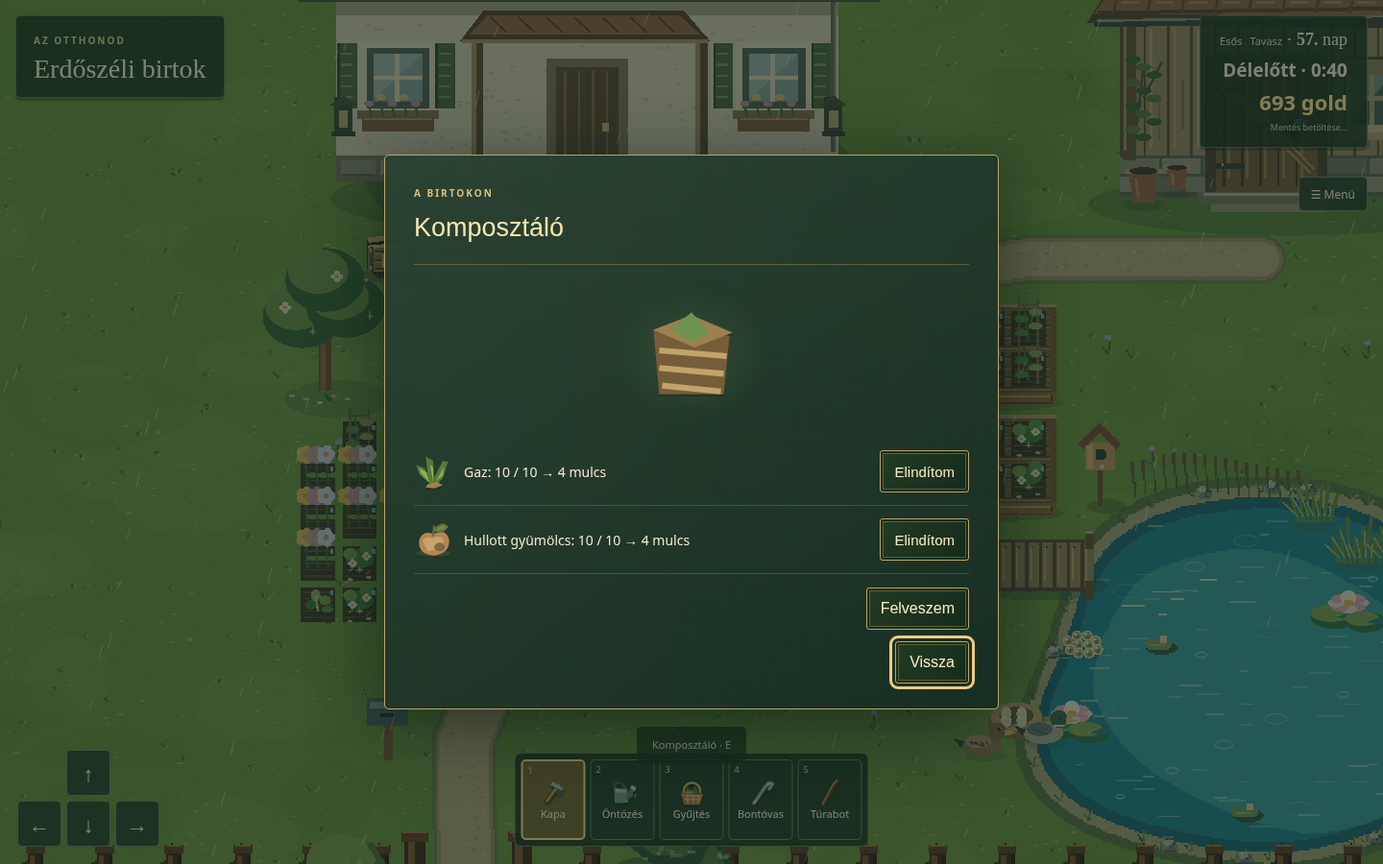
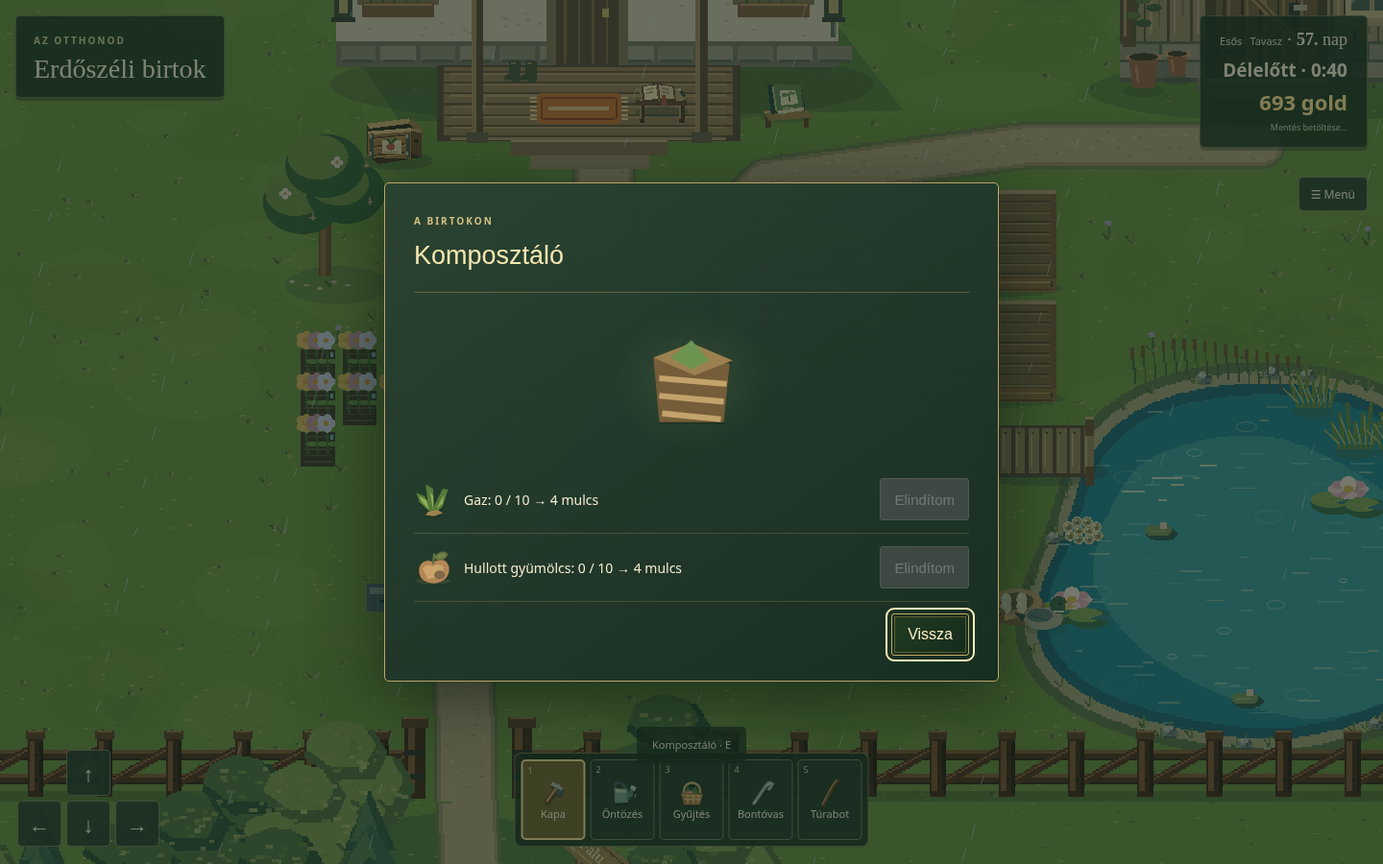
Unify all dialog controls and move placed objects exclusively with the crowbar

diff --git a/src/main.ts b/src/main.ts
@@ -1,5 +1,5 @@
+import {placedItemAt,pickPlacedItem} from './placed-items';
 import {MenuPresentation} from './menu-presentation';
-import './menu.css';
 import {forestWarningPaper} from './forest-warning';
 import {drawVillageNotice,villageNotice,pollinatorNoticeTitle,pollinatorNoticeText} from './village-notice';
 import {collectFruitFalls,pickFallenFruit} from './fallen-fruit';
@@ -8,9 +8,8 @@ import {nearEmptyBlossoms,POLLINATION_OBSERVATION_TITLE,POLLINATION_OBSERVATION_
 import {ForestAtmosphere} from './forest-atmosphere';
 import {isMicroscopeTestFarm,prepareMicroscopeTest} from './microscope-test-setup';
 import {playMicroscopeDelivery} from './microscope-delivery';
-import {packEmptyChest} from './chests';
 import {simonPortrait} from './simon-art';
-import {blueprintIds,blueprintNames,recipes,materialKeys,materialNames,heldMaterial,canCraft,craftMachine,buyBlueprint,craftNames,createCrafting,advanceCrafting,compostAction,packMachine,cutCarriedReed,mulchPlot,irrigate,irrigatedPlots,type Blueprint,type CraftItem,type Machine} from './crafting';
+import {blueprintIds,blueprintNames,recipes,materialKeys,materialNames,heldMaterial,canCraft,craftMachine,buyBlueprint,craftNames,createCrafting,advanceCrafting,compostAction,cutCarriedReed,mulchPlot,irrigate,irrigatedPlots,type Blueprint,type CraftItem,type Machine} from './crafting';
 import {drawCrafting,drawIrrigationArcs,drawMachineActivity,machineActivityPanel} from './crafting-art';
 import {junkSites,junkPoint,junkProgress,junkWorkPoint,junkTool,junkAt,junkBlocks,strikeJunk,prepareJunkSites,type JunkId} from './junk-sites';
 import {drawJunkSites,updateJunkIndicators} from './junk-art';
@@ -49,6 +48,8 @@ import {drawVillage,drawForage} from './village-art';
 import {createTravel,forageReady} from './travel';
 import Phaser from 'phaser';
 import './style.css';
+import './menu.css';
+import './dialogue-theme.css';
 import { move, START,blocked } from './movement';
 import { farmLayout,farmBounds,porchInteraction } from './layout';
 import {findSeeds,unlockedSeeds} from './seed-find';
@@ -96,7 +97,7 @@ document.querySelector('#help')!.addEventListener('click',()=>{
  showDialogue('Irányítás','WASD / nyilak · mozgás\nShift · futás\nSpace · ugrás / kitérés','');dialogue.dataset.presentation='controls';
  const panel=document.querySelector<HTMLElement>('#research-panel')!;panel.replaceChildren();panel.hidden=false;panel.classList.add('controls-guide');
  for(const [title,lines]of [
-  ['Eszközök',['1 · Kapa','2 · Öntözés','3 · Gyűjtés','4 · Bontóvas','5 · Túrabot (ha már nálad van)']],
+  ['Eszközök',['1 · Kapa','2 · Öntözés','3 · Gyűjtés','4 · Bontóvas — bontás és tárgyak áthelyezése','5 · Túrabot (ha már nálad van)']],
   ['Használat',['Kattintás · művelet a kijelölt helyen','F · művelet a karakter előtt','E · közeli tárgy vagy szereplő','Ültetőanyagot és lehelyezhető tárgyat a Készletben választhatsz.']],
   ['Ablakok',['Tab · Készlet megnyitása / bezárása','Esc · ablak bezárása','Esc a kertben · Főmenü megnyitása']]
  ]as const){const section=document.createElement('section'),heading=document.createElement('h3'),list=document.createElement('ul');heading.textContent=title;for(const line of lines){const item=document.createElement('li');item.textContent=line;list.append(item);}section.append(heading,list);panel.append(section);}
@@ -597,14 +598,14 @@ class Farm extends Phaser.Scene {
  private appendCraftRecipes(panel:HTMLElement){
   for(const id of this.travel.crafting?.blueprints??[]){const card=document.createElement('article');card.className='inventory-card craft-recipe';const title=document.createElement('strong');title.textContent=blueprintNames[id];card.append(itemIcon(id),title);const costs=document.createElement('div');costs.className='recipe-costs';for(const key of materialKeys){const required=recipes[id][key];if(!required)continue;const row=document.createElement('p'),held=heldMaterial(this.currentSnapshot(),key);row.className=`recipe-cost ${held<required?'missing':'ready'}`;row.append(itemIcon(key==='copper'?'copperPipe':key),document.createTextNode(`${materialNames[key]}: ${held} / ${required}`));costs.append(row);}card.append(costs);const craft=document.createElement('button');craft.type='button';craft.dataset.craftMachine=id;craft.textContent='Elkészítem';craft.disabled=!canCraft(this.currentSnapshot(),id)||this.transitioning;craft.onclick=()=>{const n=craftMachine(this.currentSnapshot(),id);if(n)void this.commitChest(n,()=>this.openInventory('blueprints'));};card.append(craft);panel.append(card);}
  }
- private redrawCrafting(){this.craftArt?.destroy();this.craftArt=drawCrafting(this,this.travel.crafting,(index,pointer)=>{const p=this.cameras.main.getWorldPoint(pointer.x,pointer.y);if(this.canInteract()&&this.gatherTargetWeed(p))return;if(this.canInteract()&&this.nearMachine()===index){if(this.tool==='crowbar')void this.retrieveMachine(index);else this.openMachine(index);}});}
+ private redrawCrafting(){this.craftArt?.destroy();this.craftArt=drawCrafting(this,this.travel.crafting,(index,pointer)=>{const p=this.cameras.main.getWorldPoint(pointer.x,pointer.y);if(this.canInteract()&&this.gatherTargetWeed(p))return;if(this.canInteract()&&this.nearMachine()===index){if(this.tool==='crowbar'){const m=this.travel.crafting!.machines[index];this.tryPickupPlaced(m);}else this.openMachine(index);}});}
  private nearMachine(){if(!this.actor||this.actor.y>=600)return -1;let index=-1,d=49;this.travel.crafting?.machines.forEach((m,i)=>{const distance=Math.hypot(m.x-this.actor.x,m.y-this.actor.y);if(distance<d){d=distance;index=i;}});return index;}
  private openMachine(index:number){
   const machine=this.travel.crafting?.machines[index];if(!machine)return;
 
   if(machine.kind==='irrigation')this.sprayPending=true;
   showDialogue(machine.kind==='basket'?'Nádkosár':blueprintNames[machine.kind],'','A BIRTOKON');const panel=document.querySelector<HTMLElement>('#research-panel')!;panel.replaceChildren();panel.hidden=false;panel.append(machineActivityPanel(machine));
-  if(machine.kind==='irrigation'||machine.kind==='beeHabitat'||machine.kind==='basket'){const pickup=document.createElement('button');pickup.type='button';pickup.textContent='Felveszem';pickup.dataset.packMachine=String(index);pickup.onclick=()=>void this.retrieveMachine(index,true);panel.append(pickup);return;}
+  if(machine.kind==='irrigation'||machine.kind==='beeHabitat'||machine.kind==='basket')return;
   const ready=machine.ready>0,compost=machine.kind==='composter';
   if(!ready&&machine.started===null){
    const inputs=compost?(['weed','fallenFruit'] as const):(['reed'] as const);
@@ -620,10 +621,15 @@ class Farm extends Phaser.Scene {
    const status=document.createElement('p');status.className='machine-output';if(ready)status.append(itemIcon(compost?'mulch':'basket'));status.append(document.createTextNode(ready?`${compost?'Mulcs':'Nádkosár'}: ${machine.ready}`:'Készül…'));panel.append(status);
    const take=document.createElement('button');take.type='button';take.dataset.machineAction=String(index);take.textContent=ready?'Átveszem':'Elindítom';take.disabled=this.transitioning||!ready;take.onclick=()=>{if(this.transitioning)return;const next=compostAction(this.currentSnapshot(),index);if(next)void this.commitChest(next,()=>this.openMachine(index));};panel.append(take);
   }
-  const pack=document.createElement('button');pack.type='button';pack.dataset.packMachine=String(index);pack.textContent='Felveszem';pack.disabled=machine.started!==null||machine.ready>0||this.transitioning;pack.onclick=()=>void this.retrieveMachine(index,true);panel.append(pack);
+
  }
 
- private async retrieveMachine(index:number,close=false){if(this.transitioning)return;const next=packMachine(this.currentSnapshot(),index);if(next)await this.commitChest(next,()=>{if(close)dialogue.close();});}
+ private tryPickupPlaced(point:{x:number;y:number}){
+  if(this.tool!=='crowbar'||!this.canInteract()||this.placing)return false;
+  const item=placedItemAt(this.currentSnapshot(),point);if(!item)return false;const result=pickPlacedItem(this.currentSnapshot(),item);
+  if('error'in result){this.notice(result.error);return true;}
+  void this.commitChest(result.state,()=>{this.redrawScenery();this.animateWork(item.x,item.y,'crowbar','wood',()=>this.notice(`${item.name} a Készletbe került.`));});return true;
+ }
  private craftPlacement(){
   if(!this.target)return null;let p={x:this.target.x+TILE/2,y:this.target.y+TILE/2};if(this.placingCraft==='irrigation'&&this.garden.plots.size){const closest=[...this.garden.plots.keys()].map(k=>{const[x,y]=k.split(',').map(Number);return{x:x+TILE/2,y:y+TILE/2};}).filter(q=>Math.abs(q.y-p.y)<=TILE/2).sort((a,b)=>Math.abs(a.y-p.y)-Math.abs(b.y-p.y)||Math.abs(a.x-p.x)-Math.abs(b.x-p.x))[0];if(closest)p={x:closest.x+Math.round((p.x-closest.x)/TILE)*TILE,y:closest.y};}return p;
  }
@@ -689,7 +695,7 @@ class Farm extends Phaser.Scene {
   showDialogue('Tárolóláda',`${occupiedSlots(chest.items)} / 24 rekesz · Kattintás: teljes halom · Shift+kattintás: 1 db`,'');
   const panel=document.querySelector<HTMLElement>('#research-panel')!;panel.replaceChildren();panel.hidden=false;
   for(const [title,items,deposit]of [['A ládában',chest.items,false],['Nálad',inventoryCounts(this.currentSnapshot()),true]] as const){const heading=document.createElement('h3');heading.textContent=title;panel.append(heading);const grid=document.createElement('div');grid.className='chest-grid';for(const [key,n]of Object.entries(items)){if(!n)continue;const button=document.createElement('button');button.type='button';button.className='chest-slot';button.dataset.chestItem=key;const label=document.createElement('span');label.className='chest-item-name';label.textContent=this.chestItemName(key);const count=document.createElement('strong');count.className='chest-item-count';count.textContent=String(n);button.append(this.chestItemIcon(key),label,count);button.onclick=e=>{const next=transferChest(this.currentSnapshot(),index,key,deposit,e.shiftKey);if(next)void this.commitChest(next,()=>this.openChest(index));else this.notice('Nincs több hely a tárolóban.');};grid.append(button);}panel.append(grid);}
-  const pack=document.createElement('button');pack.type='button';pack.id='pack-chest';pack.textContent='Üres láda felvétele';pack.disabled=occupiedSlots(chest.items)>0;pack.onclick=()=>{const next=packEmptyChest(this.currentSnapshot(),index);if(next)void this.commitChest(next,()=>dialogue.close());};panel.append(pack);
+
  }
  private drawSkills(){
   const page=document.querySelector<HTMLElement>('#skills-page')!;page.replaceChildren();
@@ -1226,13 +1232,14 @@ class Farm extends Phaser.Scene {
  private async doWork(){
   if(!this.ready||performance.now()<this.eatingUntil||dialogue.open||this.transitioning||this.fishThrowPlaying||this.collapseRemaining>0||this.jumpRemaining>0||this.avatar.isWorking()||!this.target)return;
   if(this.tool==='chest'){void this.placeChest();return;}
+  if(this.tryPickupPlaced({x:this.target.x+TILE/2,y:this.target.y+TILE/2}))return;
   if(inForest(this.actor.x,this.actor.y)){if(!this.forestInteraction())this.attackForest();return;}
   if(inHome(this.actor.y)){this.interactHome();return;}
   if(inWorkshop(this.actor.y)){this.researchInteraction();return;}
   if(this.gatherTargetWeed())return;
   if(this.skill.chests?.placed.some(c=>this.target&&Math.hypot(c.x-this.target.x-TILE/2,c.y-this.target.y-TILE/2)<27)){this.notice('Itt a tárolóláda áll. E betűvel kinyithatod.');return;}
   if(this.tool==='harvest'){const reed=this.travel.estate.pond.findIndex(p=>p.kind==='reed'&&Math.hypot(p.x-this.target!.x-TILE/2,p.y-this.target!.y-TILE/2)<24);if(reed>=0){void this.harvestReed(reed);return;}}
-  const machineIndex=this.travel.crafting?.machines.findIndex(m=>Math.hypot(m.x-this.target!.x-TILE/2,m.y-this.target!.y-TILE/2)<20)??-1;if(machineIndex>=0&&this.tool!=='machine'){if(Math.hypot(this.actor.x-this.travel.crafting!.machines[machineIndex].x,this.actor.y-this.travel.crafting!.machines[machineIndex].y)<49){if(this.tool==='crowbar')void this.retrieveMachine(machineIndex);else this.openMachine(machineIndex);}return;}
+  const machineIndex=this.travel.crafting?.machines.findIndex(m=>Math.hypot(m.x-this.target!.x-TILE/2,m.y-this.target!.y-TILE/2)<20)??-1;if(machineIndex>=0&&this.tool!=='machine'){if(Math.hypot(this.actor.x-this.travel.crafting!.machines[machineIndex].x,this.actor.y-this.travel.crafting!.machines[machineIndex].y)<49){this.openMachine(machineIndex);}return;}
   if(this.tool==='machine'){void this.placeCraftMachine();return;}
   if(this.tool==='mulch'){if(Math.hypot(this.target.x+TILE/2-this.actor.x,this.target.y+TILE/2-this.actor.y)>44){this.notice('Sétálj közelebb.');return;}const n=mulchPlot(this.currentSnapshot(),this.target);if(n)void this.commitChest(n,()=>this.animateWork(this.target!.x+TILE/2,this.target!.y+TILE/2,'hand','soil',()=>this.drawGarden()));return;}
   const junk=junkAt(this.clearing,this.target.x+TILE/2,this.target.y+TILE/2);if(junk){void this.workJunk(junk.id);return;}
@@ -1243,12 +1250,7 @@ class Farm extends Phaser.Scene {
   if((this.tool==='hand'||this.tool==='harvest')&&collectEstate(this.travel.estate,this.actor.x,this.actor.y,this.clock.day)){void this.gatherEstate();return;}
   if(this.travel.estate.trees.some(t=>Math.hypot(this.target!.x+TILE/2-t.x,this.target!.y+TILE/2-t.y)<24)||this.travel.estate.pond.some(p=>p.kind==='duckNest'&&Math.hypot(this.target!.x+TILE/2-p.x,this.target!.y+TILE/2-p.y)<24)){this.notice('Itt már egy fa vagy fészek áll.');return;}
   if(this.tool==='birdhouse'){void this.placeBirdhouse();return;}
-  if(this.story.birdhouse&&Math.hypot(this.target.x+TILE/2-this.story.birdhouse.x,this.target.y+TILE/2-this.story.birdhouse.y)<25){
-   if(this.tool!=='crowbar'){this.notice('A madárodút bontóvassal veheted vissza (4).');return;}
-   if(Math.hypot(this.actor.x-this.story.birdhouse.x,this.actor.y-this.story.birdhouse.y)>44){this.notice('Sétálj közelebb a madárodúhoz.');return;}
-   const point=this.story.birdhouse;
-   void this.saveStory({...this.story,birdhouse:null},()=>{this.avatar.use(point.x-this.actor.x,point.y-this.actor.y);this.redrawScenery();this.notice('A madárodú visszakerült a készletbe. Máshová is kiteheted.');});return;
-  }
+  if(this.story.birdhouse&&Math.hypot(this.target.x+TILE/2-this.story.birdhouse.x,this.target.y+TILE/2-this.story.birdhouse.y)<25){this.notice('A madárodút Bontóvassal helyezheted át.');return;}
   const item=debrisAt(this.clearing,this.garden,this.target.x+TILE/2,this.target.y+TILE/2);
   if(item){void this.clean(item);return;}
   if(this.tool==='stick'){this.avatar.use(this.direction.x*60,this.direction.y*60,'stick');return;}
@@ -1306,7 +1308,7 @@ class Farm extends Phaser.Scene {
     if(!this.ready||dialogue.open||this.transitioning||this.collapseRemaining>0)return;
     if(event.code==='Space'&&!event.repeat&&!(event.target as HTMLElement)?.closest('button')){event.preventDefault();this.startJump();}
     if(event.key>='1'&&event.key<='9')this.selectTool(tools[Number(event.key)-1]);
-    if(event.code==='KeyF'&&!event.repeat){event.preventDefault();if(this.forestInteraction())return;
+    if(event.code==='KeyF'&&!event.repeat){event.preventDefault();if(this.tool==='crowbar'){this.aimAhead();void this.doWork();return;}if(this.forestInteraction())return;
     if(this.interactHome())return;
     if(this.researchInteraction())return;
     if(this.nearby==='village-notice'){this.openVillageNotice();return;}

diff --git a/cypress/e2e/crafting.cy.ts b/cypress/e2e/crafting.cy.ts
@@ -12,10 +12,10 @@ describe('Workshop shop and automatic gardening',()=>{
  it('introduces Simon with the approved line and keeps his portrait in contacts',()=>{const s=fresh(320,4635);start(s);press('e','KeyE',69);cy.get('#dialogue').should('have.attr','data-speaker','simon');cy.get('#dialogue-text').should('have.text','Szia! Simon vagyok. Ha valami lötyög a birtokon, előbb nézd meg, javítható-e. Újat venni még mindig ráérsz.');cy.get('#speaker-portrait img').should('have.attr','alt','Simon arcképe');cy.get('#dialogue-close').click();press('Tab','Tab',9);cy.get('#people-tab').click();cy.get('[data-person=simon]').should('contain','Simon');cy.reload();cy.get('#continue-farm').should('not.be.disabled').click();press('Tab','Tab',9);cy.get('#people-tab').click();cy.get('[data-person=simon]').should('exist');});
 });
 
-it('opening an idle composter with E while holding the crowbar never picks it up',()=>{const s=fresh(300,386);s.travel.crafting!.machines=[{kind:'composter',x:324,y:420,started:null,ready:0}];start(s);press('8','Digit8',56);press('e','KeyE',69);cy.get('#dialogue-title').should('have.text','Komposztáló');cy.get('#game').should('have.attr','data-craft-machines','1');cy.get('[data-pack-machine]').should('be.enabled');cy.get('#dialogue-close').click();cy.reload();cy.get('#continue-farm').should('not.be.disabled').click();cy.get('#game').should('have.attr','data-craft-machines','1');});
+it('opening an idle composter with E while holding the crowbar never picks it up',()=>{const s=fresh(300,386);s.travel.crafting!.machines=[{kind:'composter',x:324,y:420,started:null,ready:0}];start(s);press('8','Digit8',56);press('e','KeyE',69);cy.get('#dialogue-title').should('have.text','Komposztáló');cy.get('#game').should('have.attr','data-craft-machines','1');cy.get('[data-pack-machine]').should('not.exist');cy.get('#dialogue-close').click();cy.reload();cy.get('#continue-farm').should('not.be.disabled').click();cy.get('#game').should('have.attr','data-craft-machines','1');});
 
 it('keeps only the five tools on the toolbar while seeds stay usable from inventory',()=>{const s=fresh(370,345);s.travel.forest={revision:2,enemyIntroSeen:true,stick:true,defeated:[],picked:{},sample:false,examined:false,sent:false,focus:0};s.plots=[['365,296',{crop:null,growth:0,watered:false,regrowing:false}]];start(s);cy.get('#toolbar [data-tool]').should('have.length',5);cy.get('#toolbar [data-tool=radish],#toolbar [data-tool=wildflower]').should('not.exist');press('Tab','Tab',9);cy.get('[data-inventory-seed=radish]').click();cy.get('#game').then(el=>{const z=Number(el.attr('data-zoom'));cy.get('canvas').click((377-Number(el.attr('data-camera-x')))*z,(308-Number(el.attr('data-camera-y')))*z);});cy.get('#game').should('have.attr','data-planted','1');});
-it('retrieves a placed decorative basket with its explicit pickup button',()=>{const s=fresh(410,466);s.travel.crafting!.machines=[{kind:'basket',x:420,y:468,started:null,ready:0}];start(s);press('e','KeyE',69);cy.get('[data-pack-machine]').should('have.text','Felveszem').click();cy.get('#game').should('have.attr','data-craft-machines','0');press('Tab','Tab',9);cy.get('[data-extra=basket] .stack-count').should('have.text','1');});
+it('retrieves a placed decorative basket with the crowbar',()=>{const s=fresh(410,466);s.travel.crafting!.machines=[{kind:'basket',x:420,y:468,started:null,ready:0}];start(s);press('e','KeyE',69);cy.get('[data-pack-machine]').should('not.exist');cy.get('#dialogue-close').click();press('4','Digit4',52);cy.get('#game').then(el=>{const z=Number(el.attr('data-zoom'));cy.get('canvas').click((420-Number(el.attr('data-camera-x')))*z,(468-Number(el.attr('data-camera-y')))*z);});cy.get('#game').should('have.attr','data-craft-machines','0');press('Tab','Tab',9);cy.get('[data-extra=basket] .stack-count').should('have.text','1');});
 it('offers planting or cutting purchased reed, while the machine accepts cut reed only',()=>{const s=fresh(410,466);s.travel.estate.goods.reed=4;s.travel.crafting!.machines=[{kind:'basketMaker',x:372,y:444,started:null,ready:0}];start(s);press('e','KeyE',69);cy.get('[data-machine-action]').should('be.disabled');cy.get('#research-panel').should('contain','Vágott nád: 0 / 4');cy.get('#dialogue-close').click();press('Tab','Tab',9);cy.get('[data-good=reed]').should('contain','Nád');cy.contains('[data-good=reed] button','Elhelyezem').should('exist');for(let i=1;i<=4;i++){cy.contains('[data-good=reed] button','Levágom').click();cy.get('[data-stack-key="craft:reed"] .stack-count').should('have.text',String(i));}cy.get('[data-good=reed]').should('not.exist');cy.get('#dialogue-close').click();press('e','KeyE',69);cy.get('[data-machine-action]').should('not.be.disabled').click();cy.get('#research-panel').should('contain','Készül');});
 
 it('updates partial mailbox contents in the live game and never lets received seeds reappear',()=>{const s=fresh(112,510);s.story.birdhouse={x:280,y:296};s.clearing.wood=1188;s.orders.mailbox.radish=200;s.orders.mailbox.carrot=3;s.orders.pending.potato=2;s.skill.chests={packed:0,placed:[{x:150,y:510,items:{}}]};start(s);const mailbox=()=>cy.get('#game').then(el=>{const z=Number(el.attr('data-zoom'));cy.get('canvas').click((124-Number(el.attr('data-camera-x')))*z,(482-Number(el.attr('data-camera-y')))*z);});mailbox();cy.get('#collect-package').click();cy.get('[data-mail-crop=radish]').should('contain','6 db');cy.get('[data-mail-crop=carrot]').should('contain','3 db');cy.get('#collect-package').should('be.disabled');cy.get('#dialogue-close').click();press('e','KeyE',69);cy.get('[data-chest-item="material:wood"]').click();cy.get('.chest-grid').eq(1).find('[data-chest-item="material:wood"]').should('not.exist');cy.get('#dialogue-close').click();mailbox();cy.get('[data-mail-crop=radish]').should('contain','6 db');cy.get('#collect-package').should('not.be.disabled').click();cy.get('[data-mail-crop]').should('not.exist');cy.get('#collect-package').should('not.be.visible');cy.get('#dialogue-close').click();mailbox();cy.get('[data-mail-crop]').should('not.exist');cy.reload();cy.get('#continue-farm').should('not.be.disabled').click();press('Tab','Tab',9);cy.get('[data-inventory-seed=radish] .stack-count').then(counts=>expect(Array.from(counts).reduce((n,e)=>n+Number(e.textContent),0)).to.eq(204));});
@@ -23,7 +23,7 @@ it('updates partial mailbox contents in the live game and never lets received se
 it('allows hoeing beside the starter-bed sprinkler and moving it through inventory',()=>{
  const s=fresh(555,280);s.plots=['435,248','459,248','483,248'].map(key=>[key,{crop:'pea',growth:1,watered:false,regrowing:false}]);s.travel.crafting!.machines=[{kind:'irrigation',x:519,y:260,started:null,ready:0}];start(s);
  const point=(x:number,y:number)=>cy.get('#game').then(el=>{const z=Number(el.attr('data-zoom'));cy.get('canvas').click((x-Number(el.attr('data-camera-x')))*z,(y-Number(el.attr('data-camera-y')))*z);});
- point(543,260);cy.get('#game').should('have.attr','data-plots','4').and('have.attr','data-working','false');press('e','KeyE',69);cy.get('#dialogue-title').should('have.text','Öntözőrendszer');cy.get('[data-pack-machine]').click();cy.get('#game').should('have.attr','data-craft-machines','0');press('Tab','Tab',9);cy.get('[data-stack-key="craft:irrigation"] button').click();point(543,284);cy.get('#game').should('have.attr','data-craft-machines','1');cy.reload();cy.get('#continue-farm').should('not.be.disabled').click();cy.get('#game').should('have.attr','data-craft-machines','1').and('have.attr','data-plots','4');
+ point(543,260);cy.get('#game').should('have.attr','data-plots','4').and('have.attr','data-working','false');press('e','KeyE',69);cy.get('#dialogue-title').should('have.text','Öntözőrendszer');cy.get('[data-pack-machine]').should('not.exist');cy.get('#dialogue-close').click();press('4','Digit4',52);point(519,260);cy.get('#game').should('have.attr','data-craft-machines','0').and('have.attr','data-working','false');press('Tab','Tab',9);cy.get('[data-stack-key="craft:irrigation"] button').click();point(543,284);cy.get('#game').should('have.attr','data-craft-machines','1');cy.reload();cy.get('#continue-farm').should('not.be.disabled').click();cy.get('#game').should('have.attr','data-craft-machines','1').and('have.attr','data-plots','4');
 });
 
 it('collects weeds behind a composter and beside a wreck without interacting with either',()=>{

diff --git a/src/placed-items.test.ts b/src/placed-items.test.ts
@@ -1,0 +1,21 @@
+import {it,expect} from 'vitest';
+import {snapshot,decodeSnapshot} from './storage';
+import {createGarden} from './gardening';
+import {createClock} from './clock';
+import {createCrafting} from './crafting';
+import {placedItemAt,pickPlacedItem} from './placed-items';
+const fresh=()=>{const s=snapshot({x:300,y:386},createClock(5),createGarden());s.farmName='Áthelyezés';s.travel.crafting=createCrafting();return s;};
+for(const kind of ['composter','basketMaker','irrigation','beeHabitat','basket'] as const)it(`packs ${kind} once into the correct inventory and survives save/reload`,()=>{
+ const s=fresh();s.travel.crafting!.machines=[{kind,x:324,y:420,started:null,ready:0}];const original=structuredClone(s),target=placedItemAt(s,{x:324,y:420})!;const result=pickPlacedItem(s,target);expect('state'in result).toBe(true);if(!('state'in result))return;const next=result.state;expect(next.travel.crafting!.machines).toEqual([]);expect(kind==='basket'?next.travel.estate.produce.basket:next.travel.crafting!.items[kind]).toBe(1);expect(decodeSnapshot(next)).toEqual(next);expect('error'in pickPlacedItem(next,target)).toBe(true);expect(s).toEqual(original);
+});
+it('packs the birdhouse and an empty chest without changing their ownership',()=>{
+ const s=fresh();s.story.giftReceived=true;s.story.birdhouse={x:324,y:420};const bird=pickPlacedItem(s,placedItemAt(s,s.story.birdhouse)!);expect('state'in bird).toBe(true);if(!('state'in bird))return;expect(bird.state.story.birdhouse).toBeNull();expect(bird.state.story.giftReceived).toBe(true);expect(decodeSnapshot(bird.state)).toEqual(bird.state);
+ const c=fresh();c.skill.chests={packed:0,placed:[{x:324,y:420,items:{}}]};const chest=pickPlacedItem(c,placedItemAt(c,{x:324,y:420})!);expect('state'in chest).toBe(true);if('state'in chest){expect(chest.state.skill.chests).toEqual({packed:1,placed:[]});expect(decodeSnapshot(chest.state)).toEqual(chest.state);}
+});
+it('protects working machines, unclaimed output and chest contents without mutation',()=>{
+ for(const stage of [{started:5,ready:0},{started:null,ready:4}]){const s=fresh();s.travel.crafting!.machines=[{kind:'composter',x:324,y:420,...stage}];const before=structuredClone(s);expect('error'in pickPlacedItem(s,placedItemAt(s,{x:324,y:420})!)).toBe(true);expect(s).toEqual(before);}
+ const s=fresh();s.skill.chests={packed:0,placed:[{x:324,y:420,items:{'material:wood':7}}]};expect(pickPlacedItem(s,placedItemAt(s,{x:324,y:420})!)).toEqual({error:'Előbb ürítsd ki a tárolóládát.'});expect(s.skill.chests.placed[0].items['material:wood']).toBe(7);
+});
+it('preserves placed items when the backpack is full or the player is too far away',()=>{
+ const s=fresh();s.clearing.wood=1287;s.travel.crafting!.machines=[{kind:'irrigation',x:324,y:420,started:null,ready:0}];const target=placedItemAt(s,{x:324,y:420})!;expect(pickPlacedItem(s,target)).toEqual({error:'Nincs elég hely a Készletben.'});expect(s.travel.crafting!.machines).toHaveLength(1);s.clearing.wood=0;s.player={x:500,y:500};expect(pickPlacedItem(s,target)).toEqual({error:'Sétálj közelebb.'});expect(s.travel.crafting!.machines).toHaveLength(1);
+});

diff --git a/src/dialogue-theme.css b/src/dialogue-theme.css
@@ -1,0 +1,11 @@
+/* Shared defaults for every game dialog. Content-specific layouts stay in their own CSS. */
+:root{--window-surface:linear-gradient(145deg,#2b4332f7,#172e23fc);--window-border:#bda46a;--window-ink:#f0e8ce;--window-title:#f4e6b0;--window-shadow:0 16px 70px #07170e90;--button-surface:linear-gradient(125deg,#233c22f2,#142b1bf5);--button-hover:linear-gradient(125deg,#3b502cf5,#243e24f5);--button-border:#c5aa65;--button-ink:#f8ebc5;--reading-font:system-ui,sans-serif;--control-font:'Trebuchet MS','Segoe UI',sans-serif}
+#app #dialogue:not([data-menu]),#app #delete-farm-dialog{background:var(--window-surface);border:1px solid var(--window-border);border-radius:5px;box-shadow:var(--window-shadow);color:var(--window-ink);font-family:var(--reading-font);scrollbar-width:thin;scrollbar-color:#9d9568 #1e3527}
+#app #dialogue:not([data-menu])::backdrop,#app #delete-farm-dialog::backdrop{background:#07170d80}
+#app #dialogue #dialogue-title,#app #delete-farm-title{font-family:var(--control-font);color:var(--window-title)}
+#app #dialogue:not([data-menu]) #dialogue-text{font-family:var(--reading-font)}
+#app #dialogue[open] button:not(:where(.item-slot,.chest-slot,[role="tab"],.delete-farm)),#app #delete-farm-dialog button{font-family:var(--control-font);color:var(--button-ink);background:var(--button-surface);border:1px solid var(--button-border);border-radius:3px;box-shadow:inset 0 0 0 2px #172e1a,inset 0 0 0 3px #ac944b70}
+#app #dialogue[open] button:not(:where(.item-slot,.chest-slot,[role="tab"],.delete-farm)):hover:not(:disabled),#app #delete-farm-dialog button:hover:not(:disabled){background:var(--button-hover);border-color:#e0c784}
+#app #dialogue[open] button:disabled,#app #delete-farm-dialog button:disabled{background:#555c54;color:#b7b8ad;border-color:#858b7b;box-shadow:none;opacity:.55;cursor:default}
+#app #dialogue[open] button:focus-visible,#app #delete-farm-dialog button:focus-visible{outline:2px solid #fff1bb;outline-offset:4px}
+#app #delete-farm-dialog #confirm-delete-farm{background:#743f35;border-color:#c68f76}

diff --git a/src/placed-items.ts b/src/placed-items.ts
@@ -1,0 +1,22 @@
+import type {Snapshot} from './storage';
+import {packMachine,blueprintNames} from './crafting';
+import {packEmptyChest,canCarryChange} from './chests';
+export type PlacedItem={kind:'machine'|'chest'|'birdhouse';index:number;x:number;y:number;name:string};
+// All movable furniture uses this registry, independently of how it is inspected.
+export function placedItemAt(s:Snapshot,p:{x:number;y:number}):PlacedItem|undefined{
+ const items:PlacedItem[]=[...(s.travel.crafting?.machines??[]).map((m,index)=>({kind:'machine' as const,index,x:m.x,y:m.y,name:m.kind==='basket'?'Nádkosár':blueprintNames[m.kind]})),...(s.skill.chests?.placed??[]).map((c,index)=>({kind:'chest' as const,index,x:c.x,y:c.y,name:'Tárolóláda'}))];
+ if(s.story.birdhouse)items.push({kind:'birdhouse',index:0,...s.story.birdhouse,name:'Madárodú'});
+ return items.filter(t=>Math.hypot(t.x-p.x,t.y-p.y)<28).sort((a,b)=>Math.hypot(a.x-p.x,a.y-p.y)-Math.hypot(b.x-p.x,b.y-p.y))[0];
+}
+export function pickPlacedItem(s:Snapshot,t:PlacedItem):{state:Snapshot}|{error:string}{
+ const current=placedItemAt(s,t);if(!current||current.kind!==t.kind||current.index!==t.index)return {error:'Ez a tárgy már nincs itt.'};
+ if(Math.hypot(s.player.x-t.x,s.player.y-t.y)>48)return {error:'Sétálj közelebb.'};
+ let next:Snapshot|null;
+ if(t.kind==='machine'){
+  const m=s.travel.crafting!.machines[t.index];if(m.started!==null)return {error:'A gép még dolgozik.'};if(m.ready)return {error:'Előbb vedd át az elkészült terméket.'};next=packMachine(s,t.index);
+ }else if(t.kind==='chest'){
+  if(Object.values(s.skill.chests!.placed[t.index].items).some(n=>n>0))return {error:'Előbb ürítsd ki a tárolóládát.'};next=packEmptyChest(s,t.index);
+ }else{next=structuredClone(s);next.story.birdhouse=null;}
+ if(!next||!canCarryChange(s,next))return {error:'Nincs elég hely a Készletben.'};
+ return {state:next};
+}

diff --git a/src/menu.css b/src/menu.css
@@ -129,3 +129,9 @@
 #dialogue[data-window="utility"] .shop-card :is(h3,strong){color:#f4e6b0}
 
 #dialogue[data-window="utility"],#dialogue:is([data-presentation="story"],[data-presentation="controls"]){scrollbar-width:thin;scrollbar-color:#9d9568 #1e3527}
+
+/* Include speech/shop footers and the anonymous paper's surrounding controls. */
+#app #dialogue[data-speaker],#app #dialogue[data-presentation="forest-warning"]{border:1px solid #bda46a;border-radius:5px;box-shadow:0 16px 70px #07170e90;background:linear-gradient(145deg,#2b4332f7,#172e23fc)}
+#app #dialogue[data-speaker]::backdrop,#app #dialogue[data-presentation="forest-warning"]::backdrop{background:#07170d80}
+#app #dialogue:is([data-window="utility"],[data-speaker],[data-presentation="forest-warning"]) #dialogue-close,#app #dialogue[data-presentation="forest-warning"] .warning-back{font:16px 'Trebuchet MS','Segoe UI',sans-serif;color:#f8ebc5;background:linear-gradient(125deg,#233c22f2,#142b1bf5);border:1px solid #c5aa65;border-radius:3px;box-shadow:inset 0 0 0 2px #172e1a,inset 0 0 0 3px #ac944b70;min-height:44px;padding:10px 16px}
+#app #dialogue:is([data-window="utility"],[data-speaker],[data-presentation="forest-warning"]) #dialogue-close:hover,#app #dialogue[data-presentation="forest-warning"] .warning-back:hover{background:linear-gradient(125deg,#3b502cf5,#243e24f5);border-color:#e0c784}

diff --git a/docs/jatekterv.md b/docs/jatekterv.md
@@ -836,3 +836,11 @@ Amikor Sam először közel sétál valóban sikertelen terméskötődést mutat
 - A Menü sötétzöld felülete, meleg aranyszegélye, árnyéka, gombjai, inaktív állapotai és görgetősávja egységesen megjelenik a Postaládánál, Eladóládánál, Magkatalógusnál, farmi gépeknél (komposztáló, nádkosárkészítő, öntöző és lerakott kosár), tárolóládánál, a TAB-os Készlet összes fülén, a Naplónál, a hirdetőtáblánál és mindhárom bolt vásárlási ablakainál. Tartalom és működés megmarad. A névtelen figyelmeztetés külön fehér papíros, ceruzás arculata megmarad.
 - A komposztáló indítás előtt két külön sort mutat: **Gaz** és **Hullott gyümölcs**, mindkettő saját ikonnal, birtokolt/szükséges mennyiséggel és ugyanabban a sorban egy **Elindítom** gombbal. Csak a kiválasztott sor alapanyagát használja fel; a másik készlete változatlan. 10 alapanyag → másnapra 4 mulcs, változatlanul. Feldolgozás és kész eredmény esetén az állapot/átvétel látszik, a felvétel korábbi feltételei megmaradnak. A nádkosárkészítő a soros, ikonos megjelenést szintén használja.
 - Böngészőben külön ellenőrizve minden felsorolt ablak, minden Készlet-fül, a teli tárolóláda letiltott felvétele, mindkét komposztálási alapanyag egymástól független fogyása, a kosárkészítés és a fehér figyelmeztetés elkülönülése; a komposztáló mobilnézetben is.
+
+
+### Közös ablak-alapstílus és Bontóvas-felvétel — 2026. október 28.
+- Kötelező, részletes arculati szabályzat: `docs/ablakok-es-gombok.md`; az `AGENTS.md` erre hivatkozik. Az összes párbeszédablak és műveleti gomb közös alapstílusa a **`src/dialogue-theme.css`**, amely a korábbi stílusok után töltődik be. Így a boltok és beszélgetések Vissza gombja, a névtelen figyelmeztetés két gombja és a jövőbeli ablakok kerete is ugyanazt az alapot kapja. A fehér papír, kézírás, beszédbuborékok és egyéb egyedi tartalmak megmaradnak.
+- A madárodú, a lehelyezett nádkosár, az öntöző, a komposztáló, a nádkosárkészítő, a tárolóláda és a későbbi mozgatható gépek felvétele egységes: **Bontóvas (4) + koppintás/kattintás**, illetve F az előttünk lévő tárgyon. A tárgy visszakerül a Készletbe, onnan Elhelyezem művelettel újra lerakható. E-vel továbbra is megnyitható/megvizsgálható; E nem veszi fel. Külön Felveszem és Üres láda felvétele gomb nincs. Az elkészült termék Átveszem gombja megmarad.
+- Közös célpont- és felvételi kód: `src/placed-items.ts`; a jövőbeli mozgatható tárgyaknak is ezt kell használniuk. A teli tárolóláda, a dolgozó gép és az át nem vett kész termék blokkolja a felvételt. Teli hátizsák vagy sikertelen mentés esetén a tárgy a helyén marad. A felvétel nem kétszerezheti az eszközt.
+- Az Irányítás ismerteti a Bontóvas bontási és áthelyezési szerepét.
+- Ellenőrzés: 333 egységteszt; böngészőben felvétel és újra lehelyezés a gépekkel, kosárral, madárodúval és ládával; védett készletek és gépállapotok; házon belüli ládafelvétel; mindhárom bolt vásárlási és beszélgetési ablaka; mindkét névtelen figyelmeztetés-gomb az eredeti ceruzás szöveg megtartásával.

diff --git a/docs/ablakok-es-gombok.md b/docs/ablakok-es-gombok.md
@@ -1,0 +1,19 @@
+# Ablakok és gombok közös arculata
+
+Ez az összes jelenlegi és jövőbeli játékablak alapja. Ne ablakonként másold a stílust: a közös értékeket a `src/dialogue-theme.css` adja, a menük elrendezését a `src/menu.css` kezeli.
+
+- Felület: sötétzöld átmenet (`#2b4332f7` → `#172e23fc`), 1 px meleg aranyszegély (`#bda46a`), 5 px sarok, puha sötét árnyék. Háttérként az elsötétített, megállított játék látszik; csak a Főmenü és annak alnézetei teljes képernyősek.
+- Hosszabb, olvasásra szánt szöveg: `system-ui, sans-serif`. Ablakcímek, menüpontok és gombok: `Trebuchet MS, Segoe UI, sans-serif`. A Silent Pollen képi logó külön marad.
+- Gomb: sötétzöld átmenet, aranyszegély, finom belső keret, világos krémszínű felirat. Rámutatás világosít, billentyűzetes fókusz jól látható. A meglévő elrendezést és méretet ne írd felül általános gombszabállyal.
+- Inaktív gomb: látványosan szürkített, tényleges `disabled` állapot. Aktív fülek és tárgykártyák saját állapotjelzése megmarad. Törlés megerősítése megtarthatja a figyelmeztető vöröses színt.
+- Visszalépés neve Vissza / Vissza a játékba; a Folytatás csak tényleges folytatáshoz használható. Ablakcím és felső címke ne ismételje ugyanazt.
+- Tartalmi kivételek: a névtelen figyelmeztetés fehér lapja és ceruzabetűi, a szereplők beszédbuborékai/portréi, a mikroszkóp vizsgálati képe, az ünneplések és szirmok megmaradnak. A körülöttük lévő ablakkeret és a műveleti/Vissza gombok azonban közösek.
+- Minden új vagy módosított ablaknál ellenőrizd a billentyűzetet, a mobilnézetet, az inaktív gombokat és a közös stílus tényleges érvényesülését. Ne csak a legutóbb említett kivételeket nézd át.
+
+## Kötelező ellenőrzési kör
+
+Főmenü, Menü és Beállítások; Történet és Irányítás; Postaláda (a laborlevéllel is), Eladóláda, Magkatalógus, Napló; a Készlet valamennyi füle; gépek és tárolóláda; hirdetőtábla mindkét lapja; mindhárom bolt vásárlási ablaka; Annie, Leo és Simon beszélgetései; kutatási ablakok, jutalmak és megerősítések. A speciális tartalmakat ne alakítsd át általános menüvé.
+
+## Tárgyak áthelyezése
+
+A mozgatható tárgyak felvétele Bontóvassal, a `placed-items.ts` közös útvonalán történik. Külön Felveszem gomb nincs. E-vel megvizsgáljuk/használjuk, Bontóvassal rákoppintva visszavesszük a Készletbe. A teli tárolóládák és a dolgozó vagy át nem vett terméket tartalmazó gépek nem vehetők fel; sikertelen mentés vagy teli hátizsák esetén a tárgy a helyén marad.

diff --git a/AGENTS.md b/AGENTS.md
@@ -17,3 +17,7 @@
 - A pusztán ablakot bezáró, játékba visszalépő gomb neve Vissza vagy Vissza a játékba legyen, soha ne Folytatás. A Folytatás név csak tényleges folytatást jelentsen, például mentett farm megnyitását. Vásárlásnál/rendelésnél a végrehajtó és a kilépő gomb egyértelműen különüljön el.
 
 - Minden játékbeli szövegnél kerüld a szájbarágást és túlmagyarázást. Ne ismételd szöveggel azt, amit a felület, ikonok, számok vagy gombállapot már egyértelművé tesznek. A recepteknél elég a birtokolt/szükséges mennyiség és az inaktív elkészítőgomb; ne írj külön hiány- vagy készültségi mondatot.
+
+- Minden lehelyezett, mozgatható tárgyat (a jövőben készülőket is) Bontóvassal veszünk vissza a Készletbe, majd onnan helyezünk le újra. Használd a `placed-items.ts` közös felvételi útvonalát; ne adj külön Felveszem/Üres láda felvétele gombot. A teli tárolók, dolgozó gépek és át nem vett termékek védelmét őrizd meg.
+
+- Minden jelenlegi és új ablak/gomb kövesse a [közös arculati szabályzatot](docs/ablakok-es-gombok.md). A közös alapstílus forrása `src/dialogue-theme.css`; ne kizárólag kézzel felsorolt ablakcímekhez kösd az egységesítést. Vizuális módosításnál ellenőrizd a szabályzat teljes ablaklistáját, beleértve a beszélgetések és a boltok Vissza gombjait, illetve a névtelen figyelmeztetés gombjait is.
